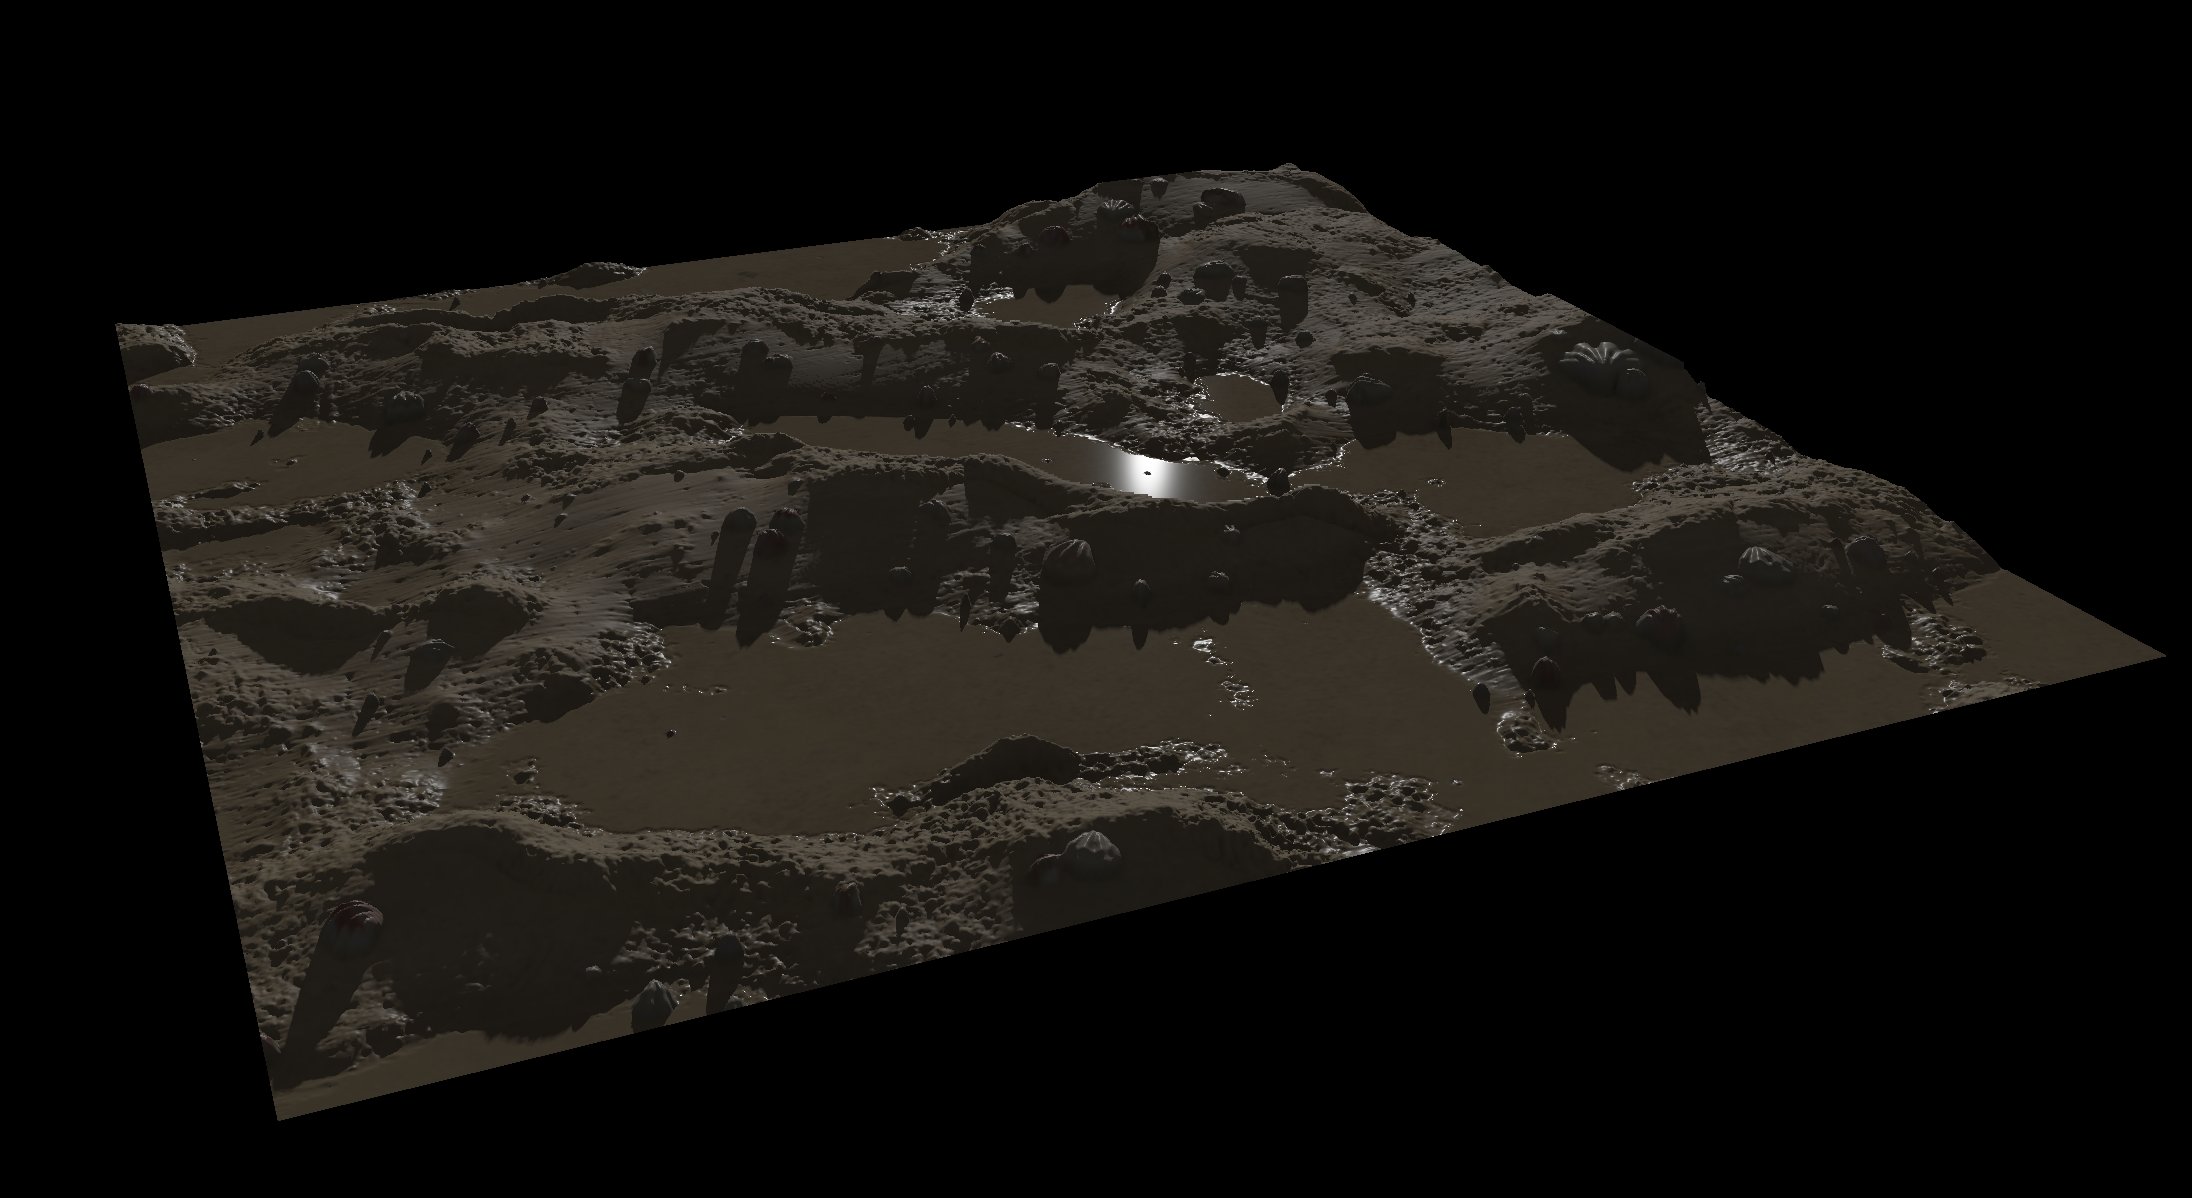
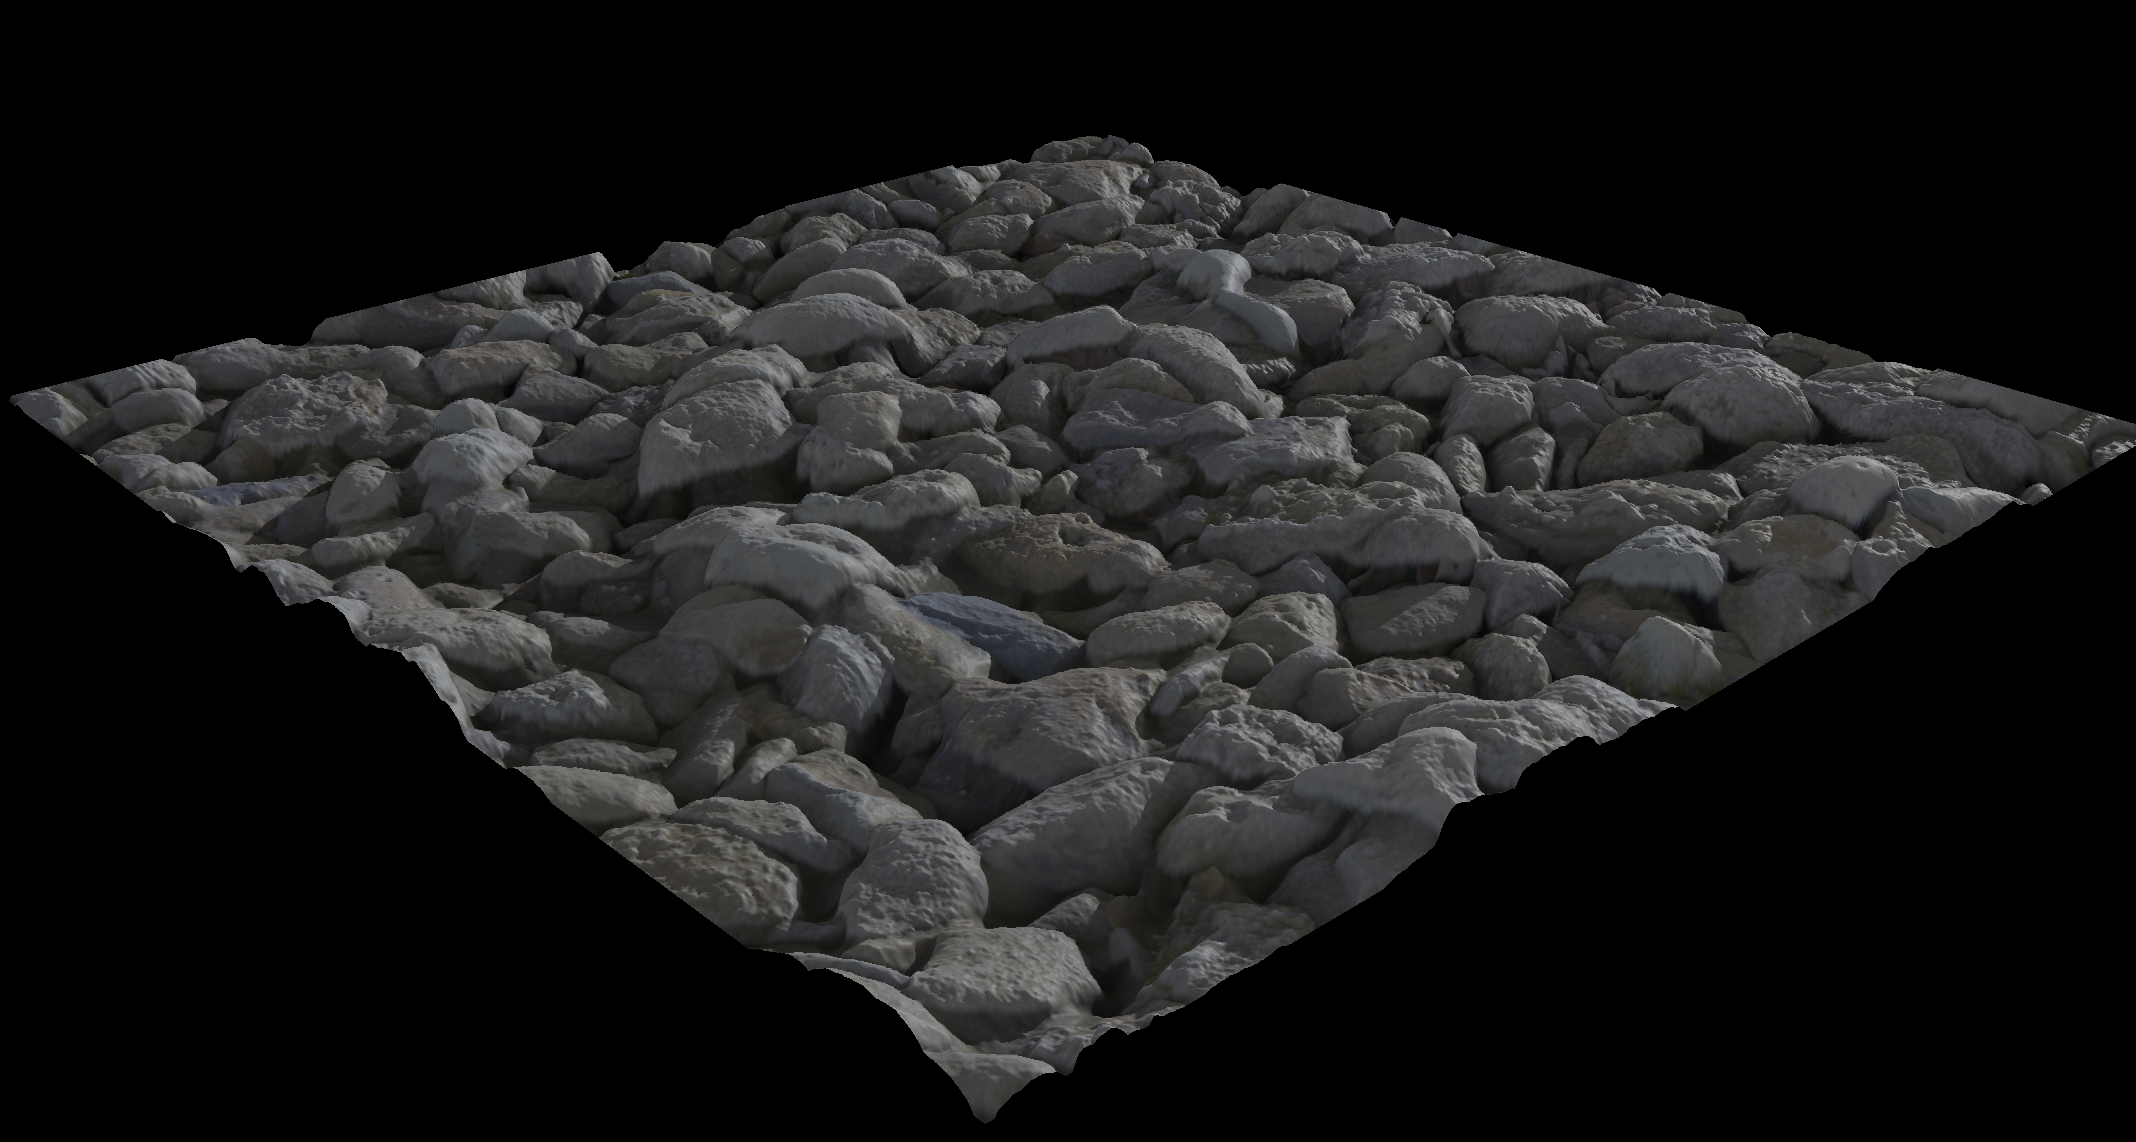
tweaks and new thumbnail

diff --git a/apps/typegpu-docs/src/examples/rendering/pom/index.ts b/apps/typegpu-docs/src/examples/rendering/pom/index.ts
@@ -290,7 +290,7 @@ const fragmentFn = tgpu.fragmentFn({
 
     const prevGap = prevSurfaceDepth - prevDepth;
     const currGap = surfaceDepth - depth;
-    const t = std.clamp(prevGap / (prevGap - currGap), 0, 1);
+    const t = std.saturate(prevGap / (prevGap - currGap));
     sampleUv = std.mix(prevUv, marchUv, t);
     sampleDepth = std.mix(prevDepth, depth, t);
 
@@ -343,7 +343,7 @@ const fragmentFn = tgpu.fragmentFn({
       shadowFactor = std.min(shadowFactor, (softShadowMultiplier * gap) / marchedDepth);
     }
 
-    shadowFactor = std.clamp(shadowFactor, 0, 1);
+    shadowFactor = std.saturate(shadowFactor);
   }
 
   const H = std.normalize(viewDir + lightDir);
@@ -368,7 +368,7 @@ const fragmentFn = tgpu.fragmentFn({
 
   // Reinhard tone mapping + gamma correction (linear → sRGB)
   color /= color + 1;
-  color = std.pow(color, d.vec3f(1 / 2.2));
+  color = std.pow(color, d.vec3f(1 / 3.2));
 
   return d.vec4f(color, 1);
 });
@@ -444,7 +444,7 @@ export const controls = defineControls({
     },
   },
   'parallax strength': {
-    initial: 0.05,
+    initial: 0.1,
     min: 0,
     max: 0.3,
     step: 0.005,

diff --git a/apps/typegpu-docs/src/examples/rendering/pom/types.ts b/apps/typegpu-docs/src/examples/rendering/pom/types.ts
@@ -13,7 +13,7 @@ export const PomParams = d.struct({
 });
 
 export const INITIAL_SUN_ANGLE = Math.atan2(0.5, 1) + Math.PI;
-export const INITIAL_SUN_HEIGHT = 0.21;
+export const INITIAL_SUN_HEIGHT = 0.05;
 export const MIN_SUN_ELEVATION = 0.08;
 export const MAX_PARALLAX_STEPS = 128;
 export const DEFAULT_PARALLAX_STEPS = 64;
@@ -28,7 +28,7 @@ export const MATERIAL_IDS = [
 ] as const;
 export type MaterialId = (typeof MATERIAL_IDS)[number];
 
-export const DEFAULT_MATERIAL: MaterialId = 'beach';
+export const DEFAULT_MATERIAL: MaterialId = 'rocks';
 export const MATERIAL_LAYER = {
   normal: 0,
   height: 1,
